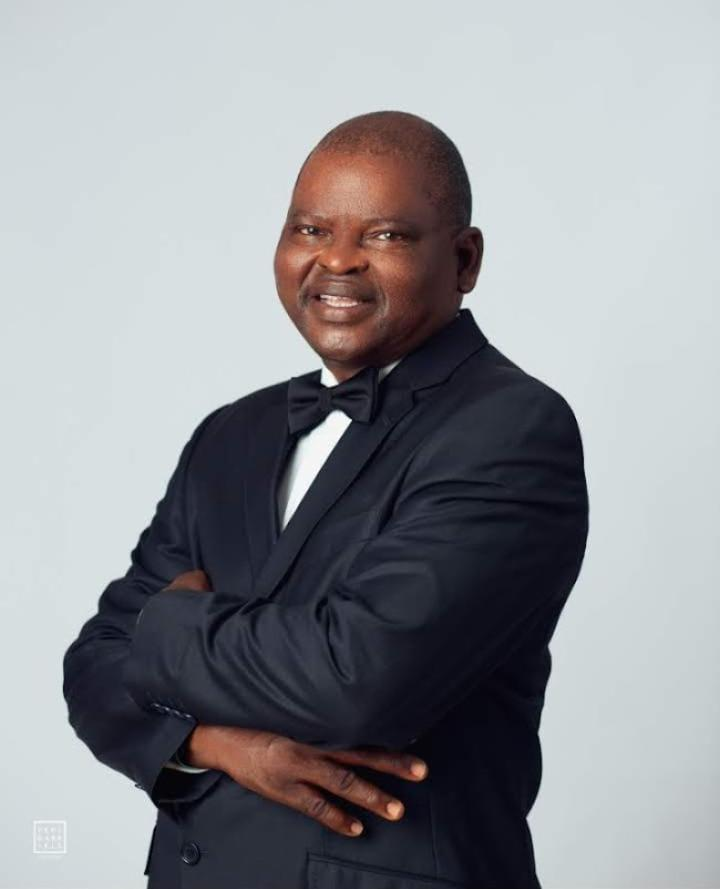
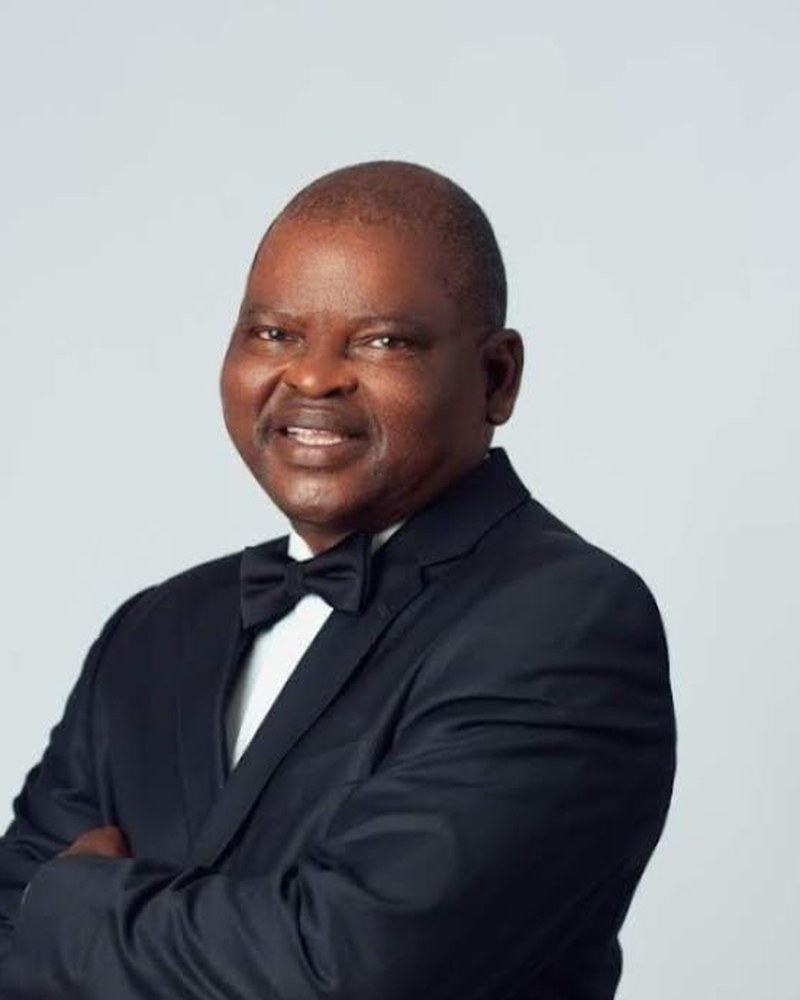
Homepage: align pastor photos to one frame

diff --git a/index.html b/index.html
@@ -25,7 +25,7 @@ footer{background:#1B2A6B;color:#cbd3f2;text-align:center;padding:14px 64px}foot
 .tdn{background:#f5f7fc;border-radius:16px;padding:20px;text-align:center;margin-top:14px}.tdn p{margin:0 0 12px;color:#445}.tdn a{display:inline-block;padding:10px 18px;border-radius:10px;font-weight:700}
 .vsec{background:linear-gradient(160deg,#1B2A6B,#132a66);color:#fff}.vsec section{text-align:center;padding:50px 20px}.vsec blockquote{margin:14px auto 0;max-width:760px;font-family:Georgia,"Times New Roman",serif;font-style:italic;font-size:clamp(20px,4.4vw,30px);line-height:1.45}.vr{margin-top:14px;font-weight:700;letter-spacing:.12em;color:#f0d78a}.vd{margin-top:6px;font-size:13px;color:#aeb8e0}
 .psec{background:#fff}.pgrid{display:grid;gap:30px;grid-template-columns:minmax(220px,380px) 1fr;align-items:center}@media(max-width:760px){.pgrid{grid-template-columns:1fr;text-align:center}.pimg{max-width:320px;margin:0 auto}}
-.pimg img{width:100%;display:block;border-radius:22px;box-shadow:0 14px 34px rgba(20,30,80,.18);border:6px solid #fff;outline:2px solid #0A8F4A}.pt{margin:-6px 0 14px;color:#0A8F4A;font-weight:700}.pq{font-family:Georgia,"Times New Roman",serif;font-style:italic;font-size:19px}
+.pimg img{width:100%;aspect-ratio:4/5;object-fit:cover;object-position:50% 20%;display:block;border-radius:22px;box-shadow:0 14px 34px rgba(20,30,80,.18);border:6px solid #fff;outline:2px solid #0A8F4A}.pt{margin:-6px 0 14px;color:#0A8F4A;font-weight:700}.pq{font-family:Georgia,"Times New Roman",serif;font-style:italic;font-size:19px}
 .vsec{position:relative;overflow:hidden}.vsec section{position:relative;z-index:2}
 .waves{position:absolute;left:0;bottom:0;width:200%;height:62%;display:flex;animation:wv 26s linear infinite;z-index:0;opacity:.75}.waves svg{width:50%;height:100%;flex:none}
 .waves .w1{fill:rgba(10,143,74,.28)}.waves .w2{fill:rgba(120,170,255,.18)}.waves .w3{fill:rgba(255,255,255,.08)}
@@ -164,7 +164,7 @@ if(mq){var f=function(e){var s=saved();if(s!=="dark"&&s!=="light"){anim();apply(
 <div class="smsec" id="sermons"><section><div class="smhd"><div><div class="eyebrow">Latest sermons</div><h2>Watch our recent services</h2></div></div>
 <div id="smw"><div class="smf"><div class="smp smsk"></div><div class="smi"><b class="smsk" style="height:20px;width:70%;border-radius:6px">&nbsp;</b></div></div></div>
 <div class="smmore"><a href="https://www.youtube.com/@riversoflivingwaterparish" target="_blank" rel="noopener"><svg viewBox="0 0 28 20" width="24" height="17" aria-hidden="true"><rect width="28" height="20" rx="5" fill="#FF0000"/><path d="M11 5.5v9l8-4.5z" fill="#fff"/></svg>Watch more on YouTube</a></div></section></div>
-<div class="psec" id="pastor"><section><div class="pgrid"><div class="pimg"><img id="pimg" src="/pastor2.jpg?v=1" alt="Pastor Abayomi Odesanya" decoding="async"></div><div><div class="eyebrow">Our Parish Pastor</div><h2>Pastor Abayomi Odesanya</h2>
+<div class="psec" id="pastor"><section><div class="pgrid"><div class="pimg"><img id="pimg" src="/pastor2.jpg?v=2" alt="Pastor Abayomi Odesanya" decoding="async"></div><div><div class="eyebrow">Our Parish Pastor</div><h2>Pastor Abayomi Odesanya</h2>
 <p class="lead pq">&ldquo;Welcome to Rivers of Living Water Parish. Whether this is your first time with us or you have worshipped here for years, you are family. Come as you are, and may the river of God&rsquo;s life flow into every area of your life. God bless you.&rdquo;</p></div></div></section></div>
 
 <div class="gsec" id="give"><section><div class="eyebrow">Give</div><h2>Support the work of God</h2><p class="glede">&ldquo;Every man according as he purposeth in his heart, so let him give; not grudgingly, or of necessity: for God loveth a cheerful giver.&rdquo; <span>2 Corinthians 9:7</span></p><div class="ggrid"><div class="gcard"><div class="gtag">Tithe &amp; Offering</div><div class="grow"><span>Bank</span><b>Jubilee-Life Mortgage Bank</b></div><div class="grow"><span>Account name</span><b>Rivers of Living Water</b></div><div class="grow gnum"><span>Account number</span><b class="gno">0000887551</b></div><button type="button" class="gcopy" data-no="0000887551"><svg viewBox="0 0 24 24" width="16" height="16" aria-hidden="true"><rect x="9" y="9" width="11" height="11" rx="2" fill="none" stroke="currentColor" stroke-width="2"/><path d="M5 15V5a2 2 0 0 1 2-2h8" fill="none" stroke="currentColor" stroke-width="2"/></svg><span>Copy account number</span></button></div><div class="gcard"><div class="gtag">Project Offering</div><div class="grow"><span>Bank</span><b>Sterling Bank</b></div><div class="grow"><span>Account name</span><b>Rivers of Living Water</b></div><div class="grow gnum"><span>Account number</span><b class="gno">0057129630</b></div><button type="button" class="gcopy" data-no="0057129630"><svg viewBox="0 0 24 24" width="16" height="16" aria-hidden="true"><rect x="9" y="9" width="11" height="11" rx="2" fill="none" stroke="currentColor" stroke-width="2"/><path d="M5 15V5a2 2 0 0 1 2-2h8" fill="none" stroke="currentColor" stroke-width="2"/></svg><span>Copy account number</span></button></div></div><p class="gnote">Please give only into these church accounts.</p></section></div>
@@ -245,7 +245,7 @@ function get(u){return fetch(u,{cache:"no-store"}).then(function(r){if(!r.ok)thr
 get("/api/sermons").catch(function(){return get("https://rlw-church.sites.tab.bot/api/sermons")}).then(function(j){if(j.videos.length)render(j.videos);else fallback()}).catch(fallback);
 })();
 </script><script>document.querySelectorAll('.gcopy').forEach(function(b){b.addEventListener('click',function(){var n=b.getAttribute('data-no'),s=b.querySelector('span');function done(){b.classList.add('ok');s.textContent='Copied: '+n;setTimeout(function(){b.classList.remove('ok');s.textContent='Copy account number'},2500)}if(navigator.clipboard&&window.isSecureContext){navigator.clipboard.writeText(n).then(done,fb)}else fb();function fb(){var t=document.createElement('textarea');t.value=n;t.style.position='fixed';t.style.opacity='0';document.body.appendChild(t);t.select();try{document.execCommand('copy')}catch(e){}document.body.removeChild(t);done()}})})</script>
-<script id="pastorrot">(function(){var P=["/pastor2.jpg?v=1","/pastor3.jpg?v=1","/pastor4.jpg?v=1"];var el=document.getElementById("pimg");if(!el||P.length<2)return;
+<script id="pastorrot">(function(){var P=["/pastor2.jpg?v=2","/pastor3.jpg?v=2","/pastor4.jpg?v=2"];var el=document.getElementById("pimg");if(!el||P.length<2)return;
 P.forEach(function(s){var i=new Image();i.src=s;});
 function idx(){return Math.floor(Date.now()/3600000)%P.length;}
 function set(){var s=P[idx()];if(el.getAttribute("src")===s)return;el.style.transition="opacity .6s";el.style.opacity="0";setTimeout(function(){el.setAttribute("src",s);el.style.opacity="1";},600);}
